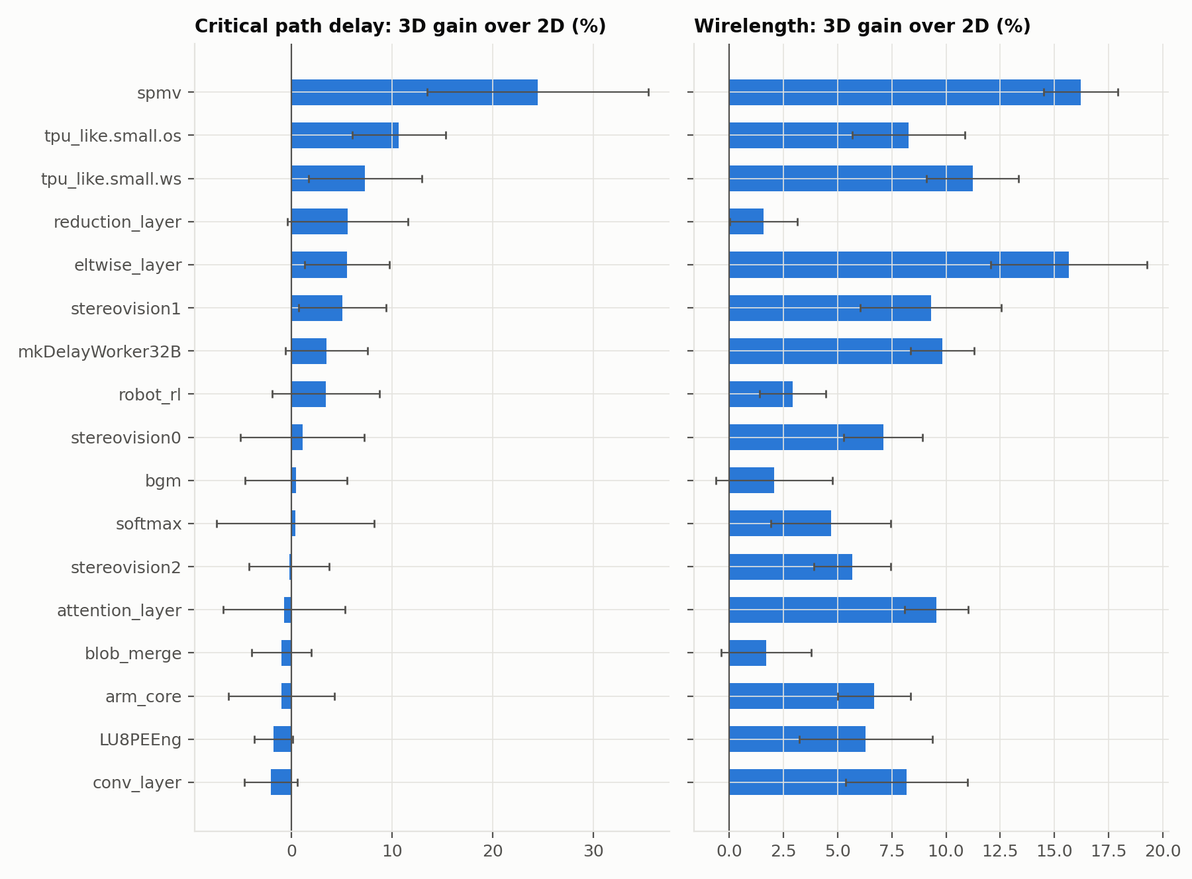
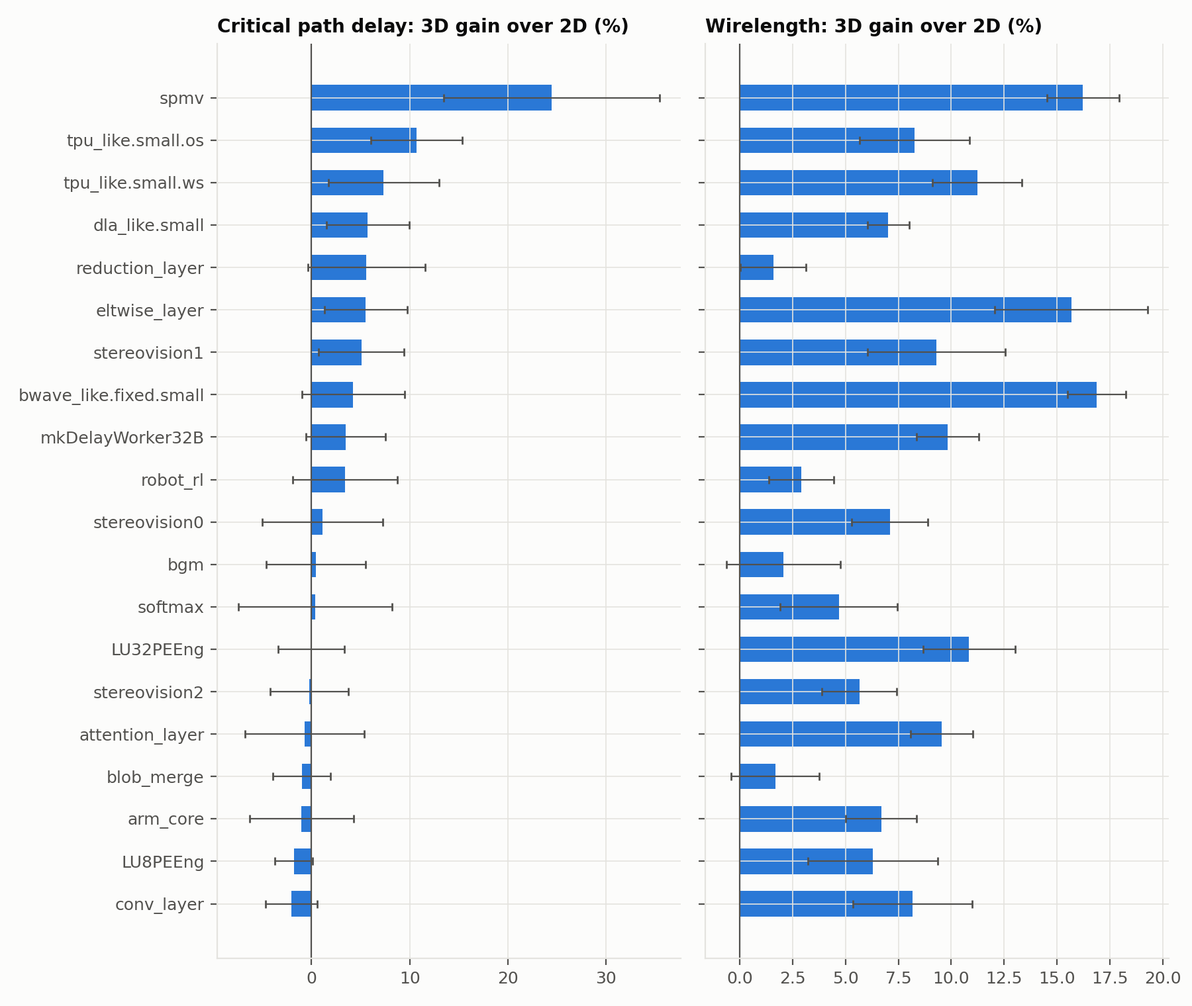
results v2 (batch 2): RQ2 split_types, RQ3 strategy comparison; fix worker OOM, async2sync

diff --git a/campaign/analyze.py b/campaign/analyze.py
@@ -291,36 +291,52 @@ def rq3(rows, lines, plt):
               "crossing. Change vs full connectivity (p = 1, v = 1); positive = better. The 2D "
               "device (no vertical links) is shown for scale.", "",
               "| design | config | relative links | CPD vs full % | WL vs full % |", "|---|---|---|---|---|"]
-    fig, axes = plt.subplots(1, 2, figsize=(9.5, 3.4))
+    agg = {"p": {}, "v": {}}   # strategy -> links -> [(cpd, wl) per design]
     for i, d in enumerate(designs):
         full = by[d][(1.0, 1.0)]["3d"]
-        psweep, vsweep = [(1.0, 0.0, 0.0)], [(1.0, 0.0, 0.0)]
         for (p, v), r in sorted(by[d].items()):
             if (p, v) == (1.0, 1.0):
                 continue
             (c, cci, _), (w, wci, _) = paired(full, r["3d"])
             lines.append(f"| {d} | p={p:g}, v={v:g} | {p*v:.2f} | {fmt(c, cci)} | {fmt(w, wci)} |")
             if v == 1.0:
-                psweep.append((p, c, w))
+                agg["p"].setdefault(p, []).append((c, w))
             elif p == 1.0:
-                vsweep.append((v, c, w))
+                agg["v"].setdefault(v, []).append((c, w))
         two = paired(full, by[d][(1.0, 1.0)]["2d"])
         lines.append(f"| {d} | 2D device | 0 | {fmt(*two[0][:2])} | {fmt(*two[1][:2])} |")
-        col = CATEGORICAL[i % len(CATEGORICAL)]
-        for ax, k in ((axes[0], 1), (axes[1], 2)):
-            ps, vs = sorted(psweep), sorted(vsweep)
-            ax.plot([q[0] for q in ps], [q[k] for q in ps], color=col, lw=2, marker="o", ms=5,
-                    label=f"{d}: fewer 3D switch blocks (p)")
-            if len(vs) > 1:
-                ax.plot([q[0] for q in vs], [q[k] for q in vs], color=col, lw=2, ls="--", marker="s",
-                        ms=5, label=f"{d}: fewer crossing channels (v)")
+    lines += ["", "**Mean over designs, by strategy** (same link budget p·v):", "",
+              "| links | fewer 3D switch blocks: CPD / WL % | fewer crossing channels: CPD / WL % |", "|---|---|---|"]
+    levels = sorted(set(agg["p"]) | set(agg["v"]))
+    for x in levels:
+        cell = []
+        for k in ("p", "v"):
+            vals = agg[k].get(x)
+            if vals:
+                mc = sum(q[0] for q in vals) / len(vals); mw = sum(q[1] for q in vals) / len(vals)
+                cell.append(f"{mc:+.1f} / {mw:+.1f} (n={len(vals)})")
+            else:
+                cell.append("–")
+        lines.append(f"| {x:g} | {cell[0]} | {cell[1]} |")
+    fig, axes = plt.subplots(1, 2, figsize=(9.5, 3.4))
+    styles = {"p": (BLUE, "-", "o", "fewer 3D switch blocks (p, all channels cross)"),
+              "v": (ORANGE, "--", "s", "fewer crossing channels per switch block (v, every SB 3D)")}
+    for k, (col, ls, mk, lab) in styles.items():
+        xs = sorted(agg[k]) + [1.0]
+        for ax, j in ((axes[0], 0), (axes[1], 1)):
+            means = [sum(q[j] for q in agg[k][x]) / len(agg[k][x]) for x in xs[:-1]] + [0.0]
+            lo = [min(q[j] for q in agg[k][x]) for x in xs[:-1]] + [0.0]
+            hi = [max(q[j] for q in agg[k][x]) for x in xs[:-1]] + [0.0]
+            ax.fill_between(xs, lo, hi, color=col, alpha=0.12, lw=0)
+            ax.plot(xs, means, color=col, ls=ls, lw=2, marker=mk, ms=6, label=lab)
     for ax, t in ((axes[0], "CPD vs full connectivity (%)"), (axes[1], "WL vs full connectivity (%)")):
         ax.axhline(0, color=INK2, lw=0.8)
         ax.set_xscale("log")
-        ax.set_xlabel("relative number of vertical links (p·v)")
+        ax.set_xlabel("relative number of vertical links (p·v), log scale")
         ax.set_title(t, loc="left")
-    axes[1].legend(loc="lower right", fontsize=6.5)
-    fig.tight_layout()
+    axes[1].legend(loc="lower right", fontsize=7.5)
+    fig.text(0.01, 0.01, f"mean over {len(designs)} designs; band = min–max across designs", fontsize=7, color=INK2)
+    fig.tight_layout(rect=(0, 0.04, 1, 1))
     fig.savefig(os.path.join(FIGS, "rq3_connectivity.png"), dpi=200)
     plt.close(fig)
     lines += ["", "![RQ3](figs/rq3_connectivity.png)", ""]

diff --git a/campaign/debug_rrg.py b/campaign/debug_rrg.py
@@ -1,0 +1,40 @@
+# Reproduce 3d_sb_creator failures for structured layouts and print the creator's own stderr.
+import os, sys, subprocess, json, glob, re, tempfile
+ROOT = os.environ.get("LAZAGNA_ROOT", "/opt/LaZagna"); CODE = os.environ.get("LAZAGNA_CODE", ROOT)
+WORK = os.environ.get("WORK", "/work"); os.chdir(ROOT); sys.path[:0] = [CODE, ROOT, ROOT + "/lazagna"]
+from lazagna_optuna import SearchConfig, autosize, structured_columns, column_counts, build_architecture, _template
+from run_flow import create_base_rrg
+from arch_xml_modification import set_fixed_layout_dimensions
+J = sorted(glob.glob(WORK + "/journal/*attention*.log"))[0]
+# collect params of pruned trials from the journal (op 5 = set params; state 2 = pruned)
+params, states = {}, {}
+for l in open(J):
+    o = json.loads(l)
+    tid = o.get("trial_id")
+    if o.get("op_code") == 5 or "param_name" in o:
+        params.setdefault(tid, {})[o["param_name"]] = o["param_value_internal"]
+    if "state" in o and tid is not None:
+        states[tid] = o["state"]
+bad = [params[t] for t, s in states.items() if s == 2 and len(params.get(t, {})) >= 5][:3]
+good = [params[t] for t, s in states.items() if s == 1 and len(params.get(t, {})) >= 5][:2]
+print("pruned examples:", bad); print("complete examples:", good)
+base = SearchConfig(lazagna_root=ROOT, benchmark_dir=WORK + "/bench/cols_attention_layer", is_verilog=True,
+                    arch_type="combined", search_mode="structured", prep_dir="/prep",
+                    template_path="arch_files/templates/dsp_bram_tall/vtr_arch_dsp_bram.xml",
+                    template_2d_path="arch_files/templates/dsp_bram_tall/vtr_2d_arch_dsp_bram.xml")
+cfg, _ = autosize(base)
+n = cfg.width - 2; _, nd, nb = column_counts(cfg)
+os.makedirs(WORK + "/dbg", exist_ok=True)
+for tag, p in [("bad%d" % i, x) for i, x in enumerate(bad)] + [("good%d" % i, x) for i, x in enumerate(good)]:
+    # internal repr: ints as floats
+    spec = structured_columns(n, nd, nb, int(p["dsp_on_l0"]), int(p["bram_on_l0"]), p["cluster"], p["stagger"], p["band_pos"])
+    print(tag, "".join({'clb':'.','dsp':'D','bram':'B'}[c] for c in spec.columns[0]), "|",
+          "".join({'clb':'.','dsp':'D','bram':'B'}[c] for c in spec.columns[1]))
+    arch = build_architecture(spec, cfg.width, cfg.height, _template(cfg, False))
+    ap = f"{WORK}/dbg/{tag}.xml"; open(ap, "w").write(arch)
+    rrg = f"/base_rrg/dbg_{tag}.xml"
+    create_base_rrg(ROOT, "/../.." + ap, channel_width=300, path_to_write_rrg=rrg)  # it prepends ROOT
+    r = subprocess.run(["python3", ROOT + "/scripts/3d_sb_creator.py", "-f", ROOT + rrg, "-o", f"{WORK}/dbg/{tag}_3d.xml",
+                        "-p", "1.0", "-c", "subset", "-a", ap, "-vp", "1", "--sb_location_pattern", "repeated_interval",
+                        "--sb_3d_switch", "3D_SB_switch", "--sb_3d_segment", "3D_SB_connection"], capture_output=True, text=True)
+    print(tag, "rc", r.returncode); print((r.stderr or r.stdout)[-1500:])

diff --git a/campaign/worker.py b/campaign/worker.py
@@ -192,7 +192,12 @@ def contribute(key: str) -> None:
     # sampler comparison uses a common denominator (see baseline_signature).
     bpath = os.path.join(WORK, "journal", "baseline_" + baseline_signature(cfg) + ".json")
     objective = make_objective(cfg, study=study, shared_baseline_path=bpath)
-    while n_started(study) < sd["target"]:
+    # Target = COMPLETED trials (plus in-flight ones), so pruned/failed trials don't eat the
+    # budget; total attempts are capped at 3x target so a systematic failure cannot loop forever.
+    def n_useful():
+        return sum(1 for t in study.get_trials(deepcopy=False)
+                   if t.state in (optuna.trial.TrialState.COMPLETE, optuna.trial.TrialState.RUNNING))
+    while n_useful() < sd["target"] and n_started(study) < 3 * sd["target"]:
         try:
             study.optimize(objective, n_trials=1)
         except Exception as e:  # one bad trial must not kill the worker

diff --git a/docs/study/tables.md b/docs/study/tables.md
@@ -1,4 +1,4 @@
-<!-- generated by campaign/analyze.py from campaign_work/study/results (83 results) -->
+<!-- generated by campaign/analyze.py from campaign_work/study/results (134 results) -->
 
 ## RQ1: 3D vs 2D at equal resources
 
@@ -9,14 +9,17 @@ Improvement of the 3D device over the 2D device with the same tile and block cou
 | spmv | 119×122 | 2×87×86 | 7/4/77% | 9.47 | 7.12 | +24.5 ± 11.0 | +16.2 ± 1.7 | 5 |
 | tpu_like.small.os | 78×74 | 2×62×50 | 70/80/53% | 7.57 | 6.75 | +10.7 ± 4.6 | +8.3 ± 2.6 | 5 |
 | tpu_like.small.ws | 71×86 | 2×62×50 | 64/77/67% | 12.89 | 11.93 | +7.3 ± 5.6 | +11.2 ± 2.1 | 5 |
+| dla_like.small | 131×134 | 2×91×98 | 80/21/27% | 11.80 | 11.12 | +5.7 ± 4.2 | +7.0 ± 1.0 | 5 |
 | reduction_layer | 55×62 | 2×46×38 | 38/0/74% | 8.29 | 7.81 | +5.6 ± 6.0 | +1.6 ± 1.6 | 5 |
 | eltwise_layer | 87×86 | 2×62×62 | 25/5/75% | 6.74 | 6.36 | +5.5 ± 4.2 | +15.7 ± 3.6 | 5 |
 | stereovision1 | 62×50 | 2×46×38 | 67/79/0% | 6.26 | 5.93 | +5.1 ± 4.4 | +9.3 ± 3.3 | 5 |
+| bwave_like.fixed.small | 142×146 | 2×95×110 | 8/22/79% | 11.43 | 10.94 | +4.2 ± 5.3 | +16.9 ± 1.4 | 5 |
 | mkDelayWorker32B | 62×50 | 2×46×38 | 32/0/78% | 9.12 | 8.79 | +3.5 ± 4.1 | +9.8 ± 1.5 | 5 |
 | robot_rl | 62×50 | 2×42×38 | 74/19/75% | 12.11 | 11.68 | +3.4 ± 5.3 | +2.9 ± 1.5 | 5 |
 | stereovision0 | 50×50 | 2×34×38 | 79/0/0% | 4.29 | 4.24 | +1.1 ± 6.2 | +7.1 ± 1.8 | 5 |
 | bgm | 76×74 | 2×58×50 | 79/7/8% | 20.92 | 20.81 | +0.4 ± 5.1 | +2.1 ± 2.7 | 5 |
 | softmax | 51×62 | 2×43×38 | 80/9/3% | 7.65 | 7.61 | +0.4 ± 7.8 | +4.7 ± 2.8 | 5 |
+| LU32PEEng | 116×134 | 2×92×86 | 79/7/46% | 92.13 | 92.12 | -0.0 ± 3.4 | +10.8 ± 2.2 | 5 |
 | stereovision2 | 88×110 | 2×78×62 | 45/79/1% | 17.56 | 17.59 | -0.2 ± 4.0 | +5.7 ± 1.8 | 5 |
 | attention_layer | 78×98 | 2×63×62 | 41/28/79% | 10.61 | 10.68 | -0.7 ± 6.1 | +9.6 ± 1.5 | 5 |
 | blob_merge | 30×38 | 2×23×26 | 76/0/0% | 11.58 | 11.69 | -1.0 ± 2.9 | +1.7 ± 2.1 | 5 |
@@ -24,14 +27,14 @@ Improvement of the 3D device over the 2D device with the same tile and block cou
 | LU8PEEng | 75×62 | 2×49×50 | 80/6/44% | 89.57 | 91.18 | -1.8 ± 1.9 | +6.3 ± 3.1 | 5 |
 | conv_layer | 87×74 | 2×55×62 | 49/21/80% | 8.56 | 8.73 | -2.1 ± 2.6 | +8.2 ± 2.8 | 5 |
 
-**Geomean over 17 designs: CPD +3.9%, WL +7.6%.** 3D wins CPD on 11/17 and WL on 17/17 designs.
+**Geomean over 20 designs: CPD +3.8%, WL +8.2%.** 3D wins CPD on 13/20 and WL on 20/20 designs.
 
 | property | Spearman vs CPD gain | Spearman vs WL gain |
 |---|---|---|
-| 2D device side (sqrt tiles) | +0.22 | +0.46 |
-| hard-block share of used tiles | +0.44 | +0.71 |
-| CLB utilization | -0.37 | -0.55 |
-| max(DSP,BRAM) utilization | +0.25 | +0.54 |
+| 2D device side (sqrt tiles) | +0.26 | +0.54 |
+| hard-block share of used tiles | +0.37 | +0.68 |
+| CLB utilization | -0.28 | -0.50 |
+| max(DSP,BRAM) utilization | +0.20 | +0.48 |
 
 ![RQ1](figs/rq1_3d_vs_2d.png)
 
@@ -41,27 +44,27 @@ Each layout vs the aligned reference (evenly spread hard-block columns, identica
 
 **CPD gain % vs aligned**
 
-| layout | arm_core | attention_layer | conv_layer | robot_rl | stereovision1 | tpu_like.small.os | mean |
-|---|---|---|---|---|---|---|---|
-| staggered | -2.9 ± 5.2 | -0.5 ± 5.4 | +0.6 ± 5.4 | -0.1 ± 5.2 | -0.3 ± 6.0 | -2.0 ± 1.9 | -0.9 |
-| hb_one_layer | +4.5 ± 3.6 | -3.8 ± 4.0 | +1.5 ± 4.6 | -0.4 ± 3.4 | -1.2 ± 2.8 | +0.5 ± 0.5 | +0.2 |
-| split_types | +0.3 ± 6.3 | -6.2 ± 7.7 | -0.8 ± 3.7 | -0.6 ± 6.1 | +0.8 ± 4.4 | -2.6 ± 6.3 | -1.5 |
-| center | -8.2 ± 11.7 | -5.8 ± 6.8 | -1.6 ± 3.6 | -0.8 ± 4.9 | -2.5 ± 2.9 | -13.0 ± 7.7 | -5.3 |
-| edges | +2.1 ± 4.3 | -7.4 ± 9.2 | +0.2 ± 3.3 | -5.2 ± 4.5 | -8.3 ± 3.2 | -9.4 ± 2.1 | -4.7 |
-| center_edges | +1.1 ± 1.9 | -3.3 ± 7.2 | -1.2 ± 6.2 | -3.6 ± 6.5 | -6.5 ± 4.6 | -3.3 ± 3.8 | -2.8 |
+| layout | LU8PEEng | arm_core | attention_layer | conv_layer | eltwise_layer | mkDelayWorker32B | reduction_layer | robot_rl | stereovision1 | stereovision2 | tpu_like.small.os | tpu_like.small.ws | mean |
+|---|---|---|---|---|---|---|---|---|---|---|---|---|---|
+| staggered | +0.1 ± 2.1 | -2.9 ± 5.2 | -0.5 ± 5.4 | +0.6 ± 5.4 | +0.8 ± 4.5 | +1.4 ± 5.5 | -4.6 ± 15.9 | -0.1 ± 5.2 | -0.3 ± 6.0 | -0.5 ± 6.3 | -2.0 ± 1.9 | +2.1 ± 4.9 | -0.5 |
+| hb_one_layer | +3.6 ± 2.8 | +4.5 ± 3.6 | -3.8 ± 4.0 | +1.5 ± 4.6 | -0.8 ± 3.2 | -0.2 ± 4.0 | -6.1 ± 7.9 | -0.4 ± 3.4 | -1.2 ± 2.8 | -2.0 ± 2.7 | +0.5 ± 0.5 | -0.8 ± 1.6 | -0.4 |
+| split_types | -0.1 ± 3.3 | +0.3 ± 6.3 | -6.2 ± 7.7 | -0.8 ± 3.7 | +0.9 ± 4.7 | +1.2 ± 4.0 | -3.2 ± 10.5 | -0.6 ± 6.1 | +0.8 ± 4.4 | +1.8 ± 1.9 | -2.6 ± 6.3 | +1.9 ± 5.5 | -0.6 |
+| center | -1.6 ± 4.5 | -8.2 ± 11.7 | -5.8 ± 6.8 | -1.6 ± 3.6 | -5.7 ± 6.6 | -8.4 ± 9.4 | -3.4 ± 9.2 | -0.8 ± 4.9 | -2.5 ± 2.9 | -10.2 ± 9.4 | -13.0 ± 7.7 | -3.4 ± 4.1 | -5.4 |
+| edges | – | +2.1 ± 4.3 | -7.4 ± 9.2 | +0.2 ± 3.3 | – | – | – | -5.2 ± 4.5 | -8.3 ± 3.2 | – | -9.4 ± 2.1 | – | -4.7 |
+| center_edges | – | +1.1 ± 1.9 | -3.3 ± 7.2 | -1.2 ± 6.2 | – | – | – | -3.6 ± 6.5 | -6.5 ± 4.6 | – | -3.3 ± 3.8 | – | -2.8 |
 
 ![RQ2 CPD](figs/rq2_layouts_cpd.png)
 
 **WL gain % vs aligned**
 
-| layout | arm_core | attention_layer | conv_layer | robot_rl | stereovision1 | tpu_like.small.os | mean |
-|---|---|---|---|---|---|---|---|
-| staggered | -1.3 ± 1.7 | -0.2 ± 2.4 | -0.2 ± 3.2 | -0.7 ± 0.8 | -0.0 ± 4.3 | -1.2 ± 1.8 | -0.6 |
-| hb_one_layer | +1.4 ± 0.6 | +2.6 ± 1.9 | -0.1 ± 2.4 | -3.1 ± 1.2 | -0.3 ± 2.6 | -1.6 ± 1.4 | -0.2 |
-| split_types | +0.7 ± 0.7 | -0.8 ± 1.6 | +2.3 ± 1.2 | -2.1 ± 2.2 | +1.0 ± 3.0 | -0.3 ± 0.9 | +0.1 |
-| center | +0.3 ± 4.5 | -9.1 ± 1.9 | -5.5 ± 3.9 | -3.2 ± 2.5 | -7.4 ± 2.2 | -17.1 ± 0.5 | -7.0 |
-| edges | +4.9 ± 2.7 | -17.5 ± 2.3 | -18.1 ± 1.9 | -3.6 ± 2.3 | -10.0 ± 6.3 | -28.1 ± 4.2 | -12.1 |
-| center_edges | +4.4 ± 1.7 | -6.5 ± 1.2 | -4.7 ± 2.2 | -1.7 ± 1.5 | -2.2 ± 3.0 | -9.8 ± 1.6 | -3.4 |
+| layout | LU8PEEng | arm_core | attention_layer | conv_layer | eltwise_layer | mkDelayWorker32B | reduction_layer | robot_rl | stereovision1 | stereovision2 | tpu_like.small.os | tpu_like.small.ws | mean |
+|---|---|---|---|---|---|---|---|---|---|---|---|---|---|
+| staggered | +0.4 ± 2.0 | -1.3 ± 1.7 | -0.2 ± 2.4 | -0.2 ± 3.2 | -1.1 ± 1.1 | +0.5 ± 0.6 | +1.0 ± 3.1 | -0.7 ± 0.8 | -0.0 ± 4.3 | +0.5 ± 2.1 | -1.2 ± 1.8 | +1.1 ± 1.9 | -0.1 |
+| hb_one_layer | +2.1 ± 1.8 | +1.4 ± 0.6 | +2.6 ± 1.9 | -0.1 ± 2.4 | +1.6 ± 2.3 | +2.2 ± 2.3 | +0.7 ± 1.5 | -3.1 ± 1.2 | -0.3 ± 2.6 | -1.1 ± 2.3 | -1.6 ± 1.4 | +1.3 ± 3.0 | +0.5 |
+| split_types | +0.2 ± 1.9 | +0.7 ± 0.7 | -0.8 ± 1.6 | +2.3 ± 1.2 | +3.0 ± 2.2 | +5.3 ± 1.9 | +2.4 ± 1.1 | -2.1 ± 2.2 | +1.0 ± 3.0 | +4.3 ± 2.0 | -0.3 ± 0.9 | +2.4 ± 2.6 | +1.5 |
+| center | -0.1 ± 2.4 | +0.3 ± 4.5 | -9.1 ± 1.9 | -5.5 ± 3.9 | +4.5 ± 3.2 | +0.2 ± 2.5 | -0.3 ± 3.5 | -3.2 ± 2.5 | -7.4 ± 2.2 | -15.1 ± 1.5 | -17.1 ± 0.5 | -8.3 ± 2.0 | -5.1 |
+| edges | – | +4.9 ± 2.7 | -17.5 ± 2.3 | -18.1 ± 1.9 | – | – | – | -3.6 ± 2.3 | -10.0 ± 6.3 | – | -28.1 ± 4.2 | – | -12.1 |
+| center_edges | – | +4.4 ± 1.7 | -6.5 ± 1.2 | -4.7 ± 2.2 | – | – | – | -1.7 ± 1.5 | -2.2 ± 3.0 | – | -9.8 ± 1.6 | – | -3.4 |
 
 ![RQ2 WL](figs/rq2_layouts_wl.png)
 
@@ -73,31 +76,67 @@ Each layout vs the aligned reference (evenly spread hard-block columns, identica
 |---|---|---|---|---|
 | attention_layer | p=0.1, v=1 | 0.10 | -8.9 ± 16.7 | -5.8 ± 2.6 |
 | attention_layer | p=0.25, v=1 | 0.25 | -1.7 ± 4.2 | -1.4 ± 2.9 |
+| attention_layer | p=0.5, v=0.5 | 0.25 | -1.5 ± 6.5 | -0.7 ± 1.8 |
 | attention_layer | p=0.5, v=1 | 0.50 | -1.3 ± 5.6 | -1.5 ± 1.4 |
 | attention_layer | p=0.75, v=1 | 0.75 | +0.1 ± 3.9 | -0.2 ± 1.4 |
+| attention_layer | p=1, v=0.05 | 0.05 | +1.1 ± 5.0 | -0.7 ± 0.4 |
+| attention_layer | p=1, v=0.1 | 0.10 | +0.6 ± 5.7 | +0.1 ± 2.2 |
 | attention_layer | p=1, v=0.25 | 0.25 | -0.1 ± 2.7 | +0.1 ± 2.9 |
 | attention_layer | p=1, v=0.5 | 0.50 | -1.9 ± 4.8 | +0.7 ± 2.4 |
 | attention_layer | 2D device | 0 | +0.5 ± 6.0 | -10.6 ± 1.8 |
+| conv_layer | p=0.1, v=1 | 0.10 | -4.7 ± 2.9 | -4.9 ± 2.0 |
+| conv_layer | p=0.25, v=1 | 0.25 | -0.9 ± 5.0 | -1.4 ± 2.4 |
+| conv_layer | p=0.5, v=1 | 0.50 | -0.6 ± 3.5 | -0.1 ± 1.4 |
+| conv_layer | p=1, v=0.1 | 0.10 | +0.9 ± 3.3 | -1.0 ± 2.6 |
+| conv_layer | p=1, v=0.25 | 0.25 | +1.1 ± 3.5 | +1.0 ± 1.0 |
+| conv_layer | p=1, v=0.5 | 0.50 | +0.2 ± 2.9 | +0.6 ± 3.1 |
+| conv_layer | 2D device | 0 | +2.0 ± 2.5 | -9.0 ± 3.3 |
+| eltwise_layer | p=0.1, v=1 | 0.10 | -5.4 ± 4.2 | -9.0 ± 1.7 |
+| eltwise_layer | p=0.25, v=1 | 0.25 | -6.0 ± 9.4 | -3.1 ± 2.0 |
+| eltwise_layer | p=0.5, v=1 | 0.50 | +0.3 ± 5.1 | -1.3 ± 1.9 |
+| eltwise_layer | p=1, v=0.1 | 0.10 | -4.5 ± 1.6 | -1.7 ± 2.0 |
+| eltwise_layer | p=1, v=0.25 | 0.25 | -6.0 ± 10.9 | +0.7 ± 1.8 |
+| eltwise_layer | p=1, v=0.5 | 0.50 | -2.7 ± 3.7 | +0.3 ± 1.6 |
+| eltwise_layer | 2D device | 0 | -5.9 ± 4.5 | -18.7 ± 5.1 |
 | robot_rl | p=0.1, v=1 | 0.10 | -3.4 ± 6.8 | -1.8 ± 0.1 |
 | robot_rl | p=0.25, v=1 | 0.25 | +1.8 ± 6.0 | -0.1 ± 0.7 |
+| robot_rl | p=0.5, v=0.5 | 0.25 | +2.5 ± 2.4 | -0.5 ± 1.6 |
 | robot_rl | p=0.5, v=1 | 0.50 | -0.4 ± 4.8 | -0.2 ± 1.3 |
 | robot_rl | p=0.75, v=1 | 0.75 | +1.6 ± 4.6 | -0.4 ± 0.7 |
+| robot_rl | p=1, v=0.05 | 0.05 | +1.2 ± 5.2 | -0.8 ± 1.7 |
+| robot_rl | p=1, v=0.1 | 0.10 | +1.2 ± 3.9 | -0.3 ± 0.4 |
 | robot_rl | p=1, v=0.25 | 0.25 | +2.3 ± 4.1 | +0.3 ± 1.5 |
 | robot_rl | p=1, v=0.5 | 0.50 | +3.4 ± 4.1 | +0.8 ± 0.8 |
 | robot_rl | 2D device | 0 | -3.7 ± 5.8 | -3.0 ± 1.6 |
 | stereovision1 | p=0.1, v=1 | 0.10 | -6.1 ± 2.7 | -7.8 ± 3.6 |
 | stereovision1 | p=0.25, v=1 | 0.25 | -1.1 ± 2.7 | -2.7 ± 3.1 |
+| stereovision1 | p=0.5, v=0.5 | 0.25 | -2.2 ± 4.7 | -3.1 ± 4.4 |
 | stereovision1 | p=0.5, v=1 | 0.50 | -2.5 ± 1.5 | -0.4 ± 1.4 |
 | stereovision1 | p=0.75, v=1 | 0.75 | -0.7 ± 4.1 | -1.8 ± 3.1 |
+| stereovision1 | p=1, v=0.05 | 0.05 | -3.3 ± 4.6 | -3.8 ± 3.5 |
+| stereovision1 | p=1, v=0.1 | 0.10 | +1.4 ± 1.6 | -0.3 ± 2.2 |
 | stereovision1 | p=1, v=0.25 | 0.25 | +0.5 ± 2.4 | -0.7 ± 2.5 |
 | stereovision1 | p=1, v=0.5 | 0.50 | +1.5 ± 4.2 | -0.3 ± 2.8 |
 | stereovision1 | 2D device | 0 | -5.5 ± 4.8 | -10.3 ± 3.9 |
 | tpu_like.small.os | p=0.1, v=1 | 0.10 | -3.6 ± 2.4 | -7.2 ± 1.6 |
 | tpu_like.small.os | p=0.25, v=1 | 0.25 | -3.1 ± 5.2 | -2.1 ± 1.9 |
+| tpu_like.small.os | p=0.5, v=0.5 | 0.25 | -1.6 ± 1.5 | -0.4 ± 1.1 |
 | tpu_like.small.os | p=0.5, v=1 | 0.50 | -3.3 ± 6.5 | -1.4 ± 2.0 |
 | tpu_like.small.os | p=0.75, v=1 | 0.75 | -2.0 ± 3.7 | -0.5 ± 1.1 |
+| tpu_like.small.os | p=1, v=0.05 | 0.05 | -1.4 ± 6.9 | -3.3 ± 2.3 |
+| tpu_like.small.os | p=1, v=0.1 | 0.10 | -2.7 ± 2.3 | -0.9 ± 3.3 |
 | tpu_like.small.os | p=1, v=0.25 | 0.25 | -4.2 ± 4.1 | -0.2 ± 3.0 |
 | tpu_like.small.os | p=1, v=0.5 | 0.50 | -1.4 ± 4.4 | -1.0 ± 1.9 |
 | tpu_like.small.os | 2D device | 0 | -12.1 ± 5.7 | -9.1 ± 3.0 |
+
+**Mean over designs, by strategy** (same link budget p·v):
+
+| links | fewer 3D switch blocks: CPD / WL % | fewer crossing channels: CPD / WL % |
+|---|---|---|
+| 0.05 | – | -0.6 / -2.2 (n=4) |
+| 0.1 | -5.4 / -6.1 (n=6) | -0.5 / -0.7 (n=6) |
+| 0.25 | -1.8 / -1.8 (n=6) | -1.1 / +0.2 (n=6) |
+| 0.5 | -1.3 / -0.8 (n=6) | -0.1 / +0.2 (n=6) |
+| 0.75 | -0.3 / -0.7 (n=4) | – |
 
 ![RQ3](figs/rq3_connectivity.png)

diff --git a/STUDY_RESULTS.md b/STUDY_RESULTS.md
@@ -14,28 +14,39 @@ mean ± 95% CI over seeds.
 ## Key findings so far
 
 1. **RQ1: 3D shortens wires on every design and speeds up the hard-block-heavy ones.**
-   Over 17 designs, 3D reduces routed wirelength on **17/17 (geomean +7.6%)** and CPD by
-   **+3.9% geomean** (11/17 better; the CPD intervals are wide). The size of the gain
-   tracks how much of the design's area is hard blocks: Spearman **+0.71** for the WL gain
-   (+0.44 for CPD). It is anti-correlated with CLB utilization (−0.55). The interpretation:
-   in 2D, tall DSP/BRAM columns push the logic apart, and a second layer brings the logic
-   that talks to those columns closer. Logic-dominated designs (bgm, blob_merge, LU8PEEng)
-   gain ≈0 CPD and +2–6% WL; sparse, BRAM-dominated spmv gains +24.5% CPD and +16% WL.
-2. **RQ2: where hard blocks sit within a layer matters; which layer they sit on barely does.**
-   Against evenly spread, layer-aligned hard-block columns, clustering the hard blocks hurts
-   consistently: center −7.0% WL / −5.3% CPD, edges −12.1% WL / −4.7% CPD (mean over 6
-   designs, up to −28% WL). Re-arranging them *vertically* is within noise: all hard blocks
-   on one layer (hb_one_layer) gives +0.2% CPD / −0.2% WL, DSP and BRAM on separate layers
-   (split_types) gives −1.5% / +0.1%, and staggering the layers gives −0.9% / −0.6%.
-   **Implication: a logic-only die stacked on a hard-block die costs ≈nothing in
-   performance,** which opens heterogeneous integration (e.g. hard blocks on a different
-   process node). Being confirmed on 6 more designs (batch 2).
-3. **RQ3: vertical links can be cut by 4× with little loss, if they're cut per switch block.**
-   Keeping every switch block 3D but letting only 25% of its channels cross (v = 0.25)
-   changes CPD by −4..+2% (within noise) and WL by ≤ ±1%. Making only 25% of the switch
-   blocks 3D (p = 0.25, the same link count) costs 0.1–2.7% WL, and p = 0.1 costs 2–8% WL.
-   **For a fixed vertical-link budget, spread thin links everywhere rather than full links
-   at a few sites.** v = 0.05 and 0.1 are running (batch 2) to find where it breaks down.
+   Over 20 designs, 3D reduces routed wirelength on **20/20 (geomean +8.2%)** and CPD by
+   **+3.8% geomean** (13/20 better; the CPD intervals are wide). The size of the gain tracks
+   how much of the design's area is hard blocks: Spearman **+0.71** for the WL gain (+0.44
+   for CPD). It is anti-correlated with CLB utilization (−0.55). The interpretation: in 2D,
+   tall DSP/BRAM columns push the logic apart, and a second layer brings the logic that talks
+   to those columns closer. Logic-dominated designs (bgm, blob_merge, LU8PEEng) gain ≈0 CPD
+   and +2–6% WL; sparse, BRAM-dominated spmv gains +24.5% CPD and +16% WL.
+2. **RQ2: where hard blocks sit within a layer matters; which layer they sit on barely does,
+   and separating DSP from BRAM by layer helps slightly.** (12 designs, vs evenly spread,
+   layer-aligned columns.)
+   - Clustering hard blocks hurts: center −5.1% WL / −5.4% CPD, edges −12.1% / −4.7% (up to
+     −28% WL). The one exception is arm_core, which has no DSPs.
+   - Vertical re-arrangements are within noise for CPD: all hard blocks on one layer gives
+     −0.4% CPD / +0.5% WL; layer 1 staggered by half a pitch gives −0.5% / −0.1%.
+   - **DSP on one layer and BRAM on the other gives +1.5% WL on average**, positive on 8/12
+     designs and significant on 5 (mkDelayWorker32B +5.3 ± 1.9, stereovision2 +4.3 ± 2.0,
+     eltwise +3.0 ± 2.2, reduction +2.4 ± 1.1, conv +2.3 ± 1.2), with CPD −0.6% (noise).
+   - **Implication:** dedicating layers by function (a logic-only die over a hard-block die,
+     or DSP and BRAM on separate dies) costs ≈nothing and can shorten wires. That favors
+     heterogeneous 3D integration (different process nodes or IP per die).
+3. **RQ3: thin the vertical links per switch block, don't remove switch blocks.** At an
+   equal link budget (mean over 6 designs):
+
+   | vertical links kept | fewer 3D switch blocks (CPD / WL) | fewer crossing channels (CPD / WL) |
+   |---|---|---|
+   | 50% | −1.3% / −0.8% | −0.1% / +0.2% |
+   | 25% | −1.8% / −1.8% | −1.1% / +0.2% |
+   | 10% | **−5.4% / −6.1%** | **−0.5% / −0.7%** |
+   | 5% | – | −0.6% / −2.2% |
+
+   Keeping every switch block 3D with only 5–10% of its channels crossing preserves
+   almost all of the 3D benefit (the 2D device is 9–19% worse in WL on these designs). That
+   is a 10–20× reduction in inter-die connections (micro-bumps/TSVs/hybrid-bond pads).
 
 ## Detailed tables
 

diff --git a/STUDY_RUNLOG.md b/STUDY_RUNLOG.md
@@ -27,22 +27,22 @@ Read at every loop iteration. Update "State" and "Next" before ending each itera
 - **E. Write-up:** STUDY_RESULTS.md with tables, figures (PNG), and insights for each RQ;
   limitations; reproduce commands.
 
-## State (2026-10-11 20:55)
-- Batch-1 rerun 13966093: 83/86 clean (0 errors). Remaining: the large RQ1 designs
-  (dla_like.small, LU32PEEng, bwave). Tables are in docs/study/tables.md. Findings are in
-  STUDY_RESULTS.md (v1).
-- Batch 2 = job 13966526 (51 tasks, %14): RQ2 generalization on 6 designs (hb_one_layer,
-  split_types, center, staggered); RQ3 v=0.05/0.1 and p=0.5,v=0.5 on 4 designs plus a full sweep
-  on conv/eltwise; RQ1 clstm_like.small, mcml, gemm_layer (jobs=2).
-- Structured Optuna studies (campaign_work/study_optuna, route fidelity, 3 seeds, 45 trials):
-  tpu_like.small.os = 13966528, attention_layer = 13966529, stereovision1 = 13966530 (3 workers each).
+## State (2026-10-11 21:50)
+- Batches 1 and 2: 134 results, 0 errors (gemm/clstm/large RQ1 may still be running). Findings
+  are in STUDY_RESULTS.md (RQ1 20 designs; RQ2 12 designs; RQ3 6 designs + strategy table).
+- Optuna structured studies restarted with 64 GB workers: tpu_like.small.os = 13967294,
+  attention_layer = 13967295, stereovision1 = 13967296 (journal in campaign_work/study_optuna,
+  target 45 COMPLETE trials).
+- mcml retry (async2sync) = 13967311.
 
 ## Next
-- Harvest batch 2; rerun analyze.py; update STUDY_RESULTS.md.
-- Optuna: when the studies finish, extract best structured params plus a parameter
-  importance/correlation analysis (cluster/stagger/splits vs CPD/WL). Write
-  campaign/analyze_optuna.py, which runs in the container (optuna is not on the host). Validate
-  the top 3 layouts per design with 5 seeds via a 'custom' experiment kind (explicit columns).
-- If the CPD claims need it: 10-seed reruns of key comparisons (RQ1 on the top designs; RQ2
-  hb_one_layer vs aligned).
-- Consider an RQ3 extra: SB location patterns (core/perimeter/rows/columns) at p = 0.25.
+- When the Optuna studies have ≥30 complete trials each, run analyze_optuna.py via
+  run_script.sbatch (WORK_ROOT=campaign_work/study_optuna). Then submit
+  tasks_validate.jsonl (copied into campaign_work/study) with experiment.sbatch to get the top
+  layouts at 5 seeds.
+- RQ2 follow-up (batch 3): split_types is the most interesting layout. Test it with clustering
+  per layer (DSP layer spread vs BRAM layer spread), the reverse layer order (BRAM on layer 0),
+  and more seeds (10) on the 5 designs where it was significant, to firm up the claim.
+- RQ3 follow-up: channel-thinning at p=0.5 vs p=1 (is p=1, v=0.1 better than p=0.2, v=0.5?);
+  v=0.05 on conv/eltwise; SB location patterns (perimeter/core/rows/columns) at p=0.25.
+- RQ1: add 10 seeds on the 6 designs whose CPD CI crosses zero, if budget allows.

diff --git a/STUDY_ASSUMPTIONS.md b/STUDY_ASSUMPTIONS.md
@@ -118,3 +118,11 @@ Entries are added during the run (date, decision, reason).
 - 2026-10-11: **Statistics:** paired by seed; the per-design improvement is the mean of
   per-seed % deltas ± a 95% t-interval; the cross-design summary is the geomean of
   per-design ratios computed over the seeds both sides routed.
+- 2026-10-11: **Optuna workers raised to 64 GB.** At 32 GB, 3D RRG generation (Python,
+  peaking ~19 GB, plus multi-GB file cache counted by the job's memory limit) was killed
+  intermittently, which pruned 20–85% of trials. Workers now count only COMPLETE trials toward
+  the target (attempts are capped at 3× the target).
+- 2026-10-11: **`async2sync` added before `dfflegalize`** for fine-grained async set/reset
+  FFs (mcml). It is a no-op for designs without them.
+- 2026-10-11: **RQ3 reported by strategy:** results are aggregated as the mean over designs at
+  an equal relative link budget (p·v); per-design rows are in docs/study/tables.md.
